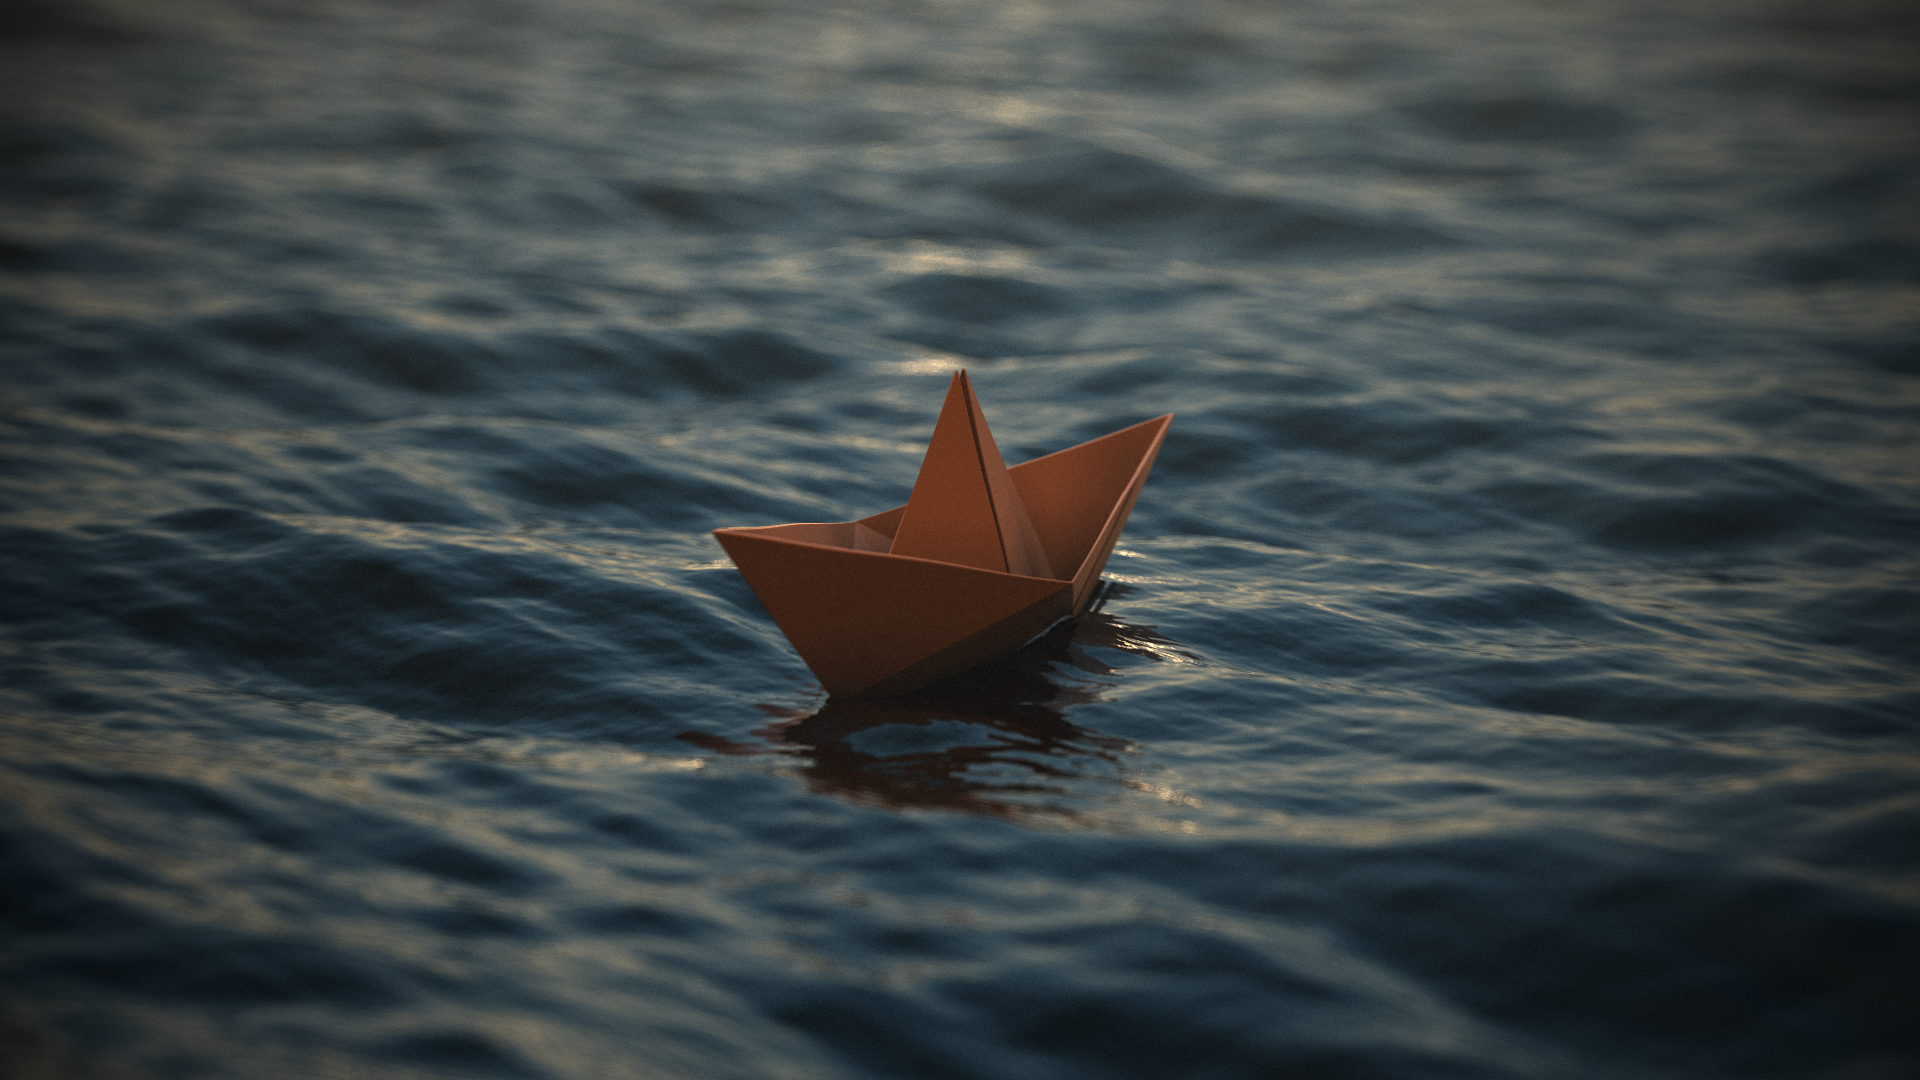
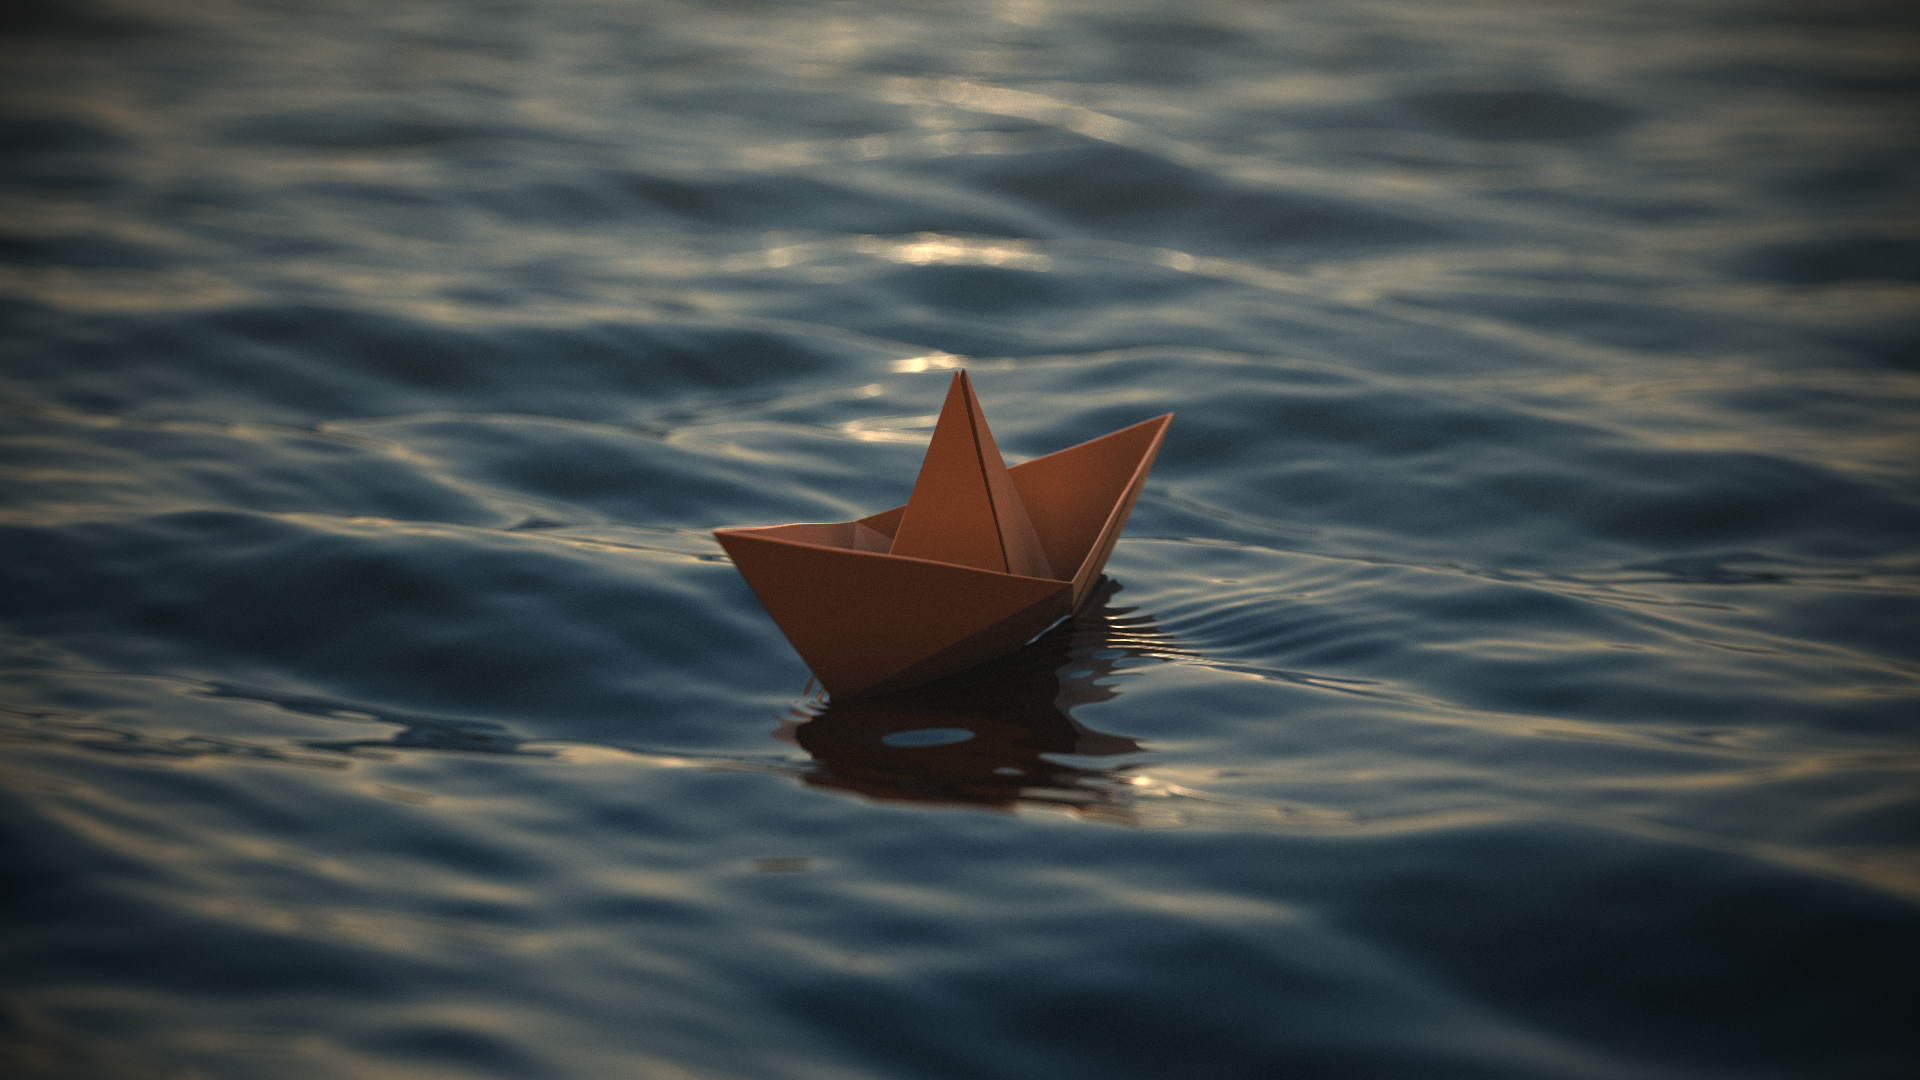
batch renders into scanlines

diff --git a/shipping.c b/shipping.c
@@ -22,7 +22,8 @@ const char* vshader = "#version 450\nvec2 y=vec2(1.,-1);\nvec4 x[4]={y.yyxx,y.xy
 
 #define CANVAS_WIDTH 1920
 #define CANVAS_HEIGHT 1080
-#define WAVE_SAMPLES 2048
+#define SCANLINE_SIZE 10
+#define WAVE_SAMPLES 1024
 #define DEBUG
 
 static gboolean check_escape(GtkWidget *widget, GdkEventKey *event, gpointer data)
@@ -64,7 +65,7 @@ fftwf_complex wavedata_in[WAVE_SAMPLES][WAVE_SAMPLES] __attribute__ ((__aligned_
 fftwf_complex wavedata_out[WAVE_SAMPLES][WAVE_SAMPLES] __attribute__ ((__aligned__(16)));
 
 float phillips_spectrum(float x, float y) {
-	float scale = 400.0; //m? reciprocal meters?
+	float scale = 200.0; //m? reciprocal meters?
 	x *= scale; y *= scale; //m???
 	float k = x*x+y*y; //m...??
 	float windspeed = 3.5; //m/s
@@ -73,7 +74,7 @@ float phillips_spectrum(float x, float y) {
 	// float windx = 0.0; //m/s
 	// float windy = 1.0; //m/s
 	// float dot = windx*x + windy*y; //m^2/s??
-	if (k > WAVE_SAMPLES/4) return 0.0;
+	if (k > WAVE_SAMPLES/2) return 0.0;
 	return 0.1*exp(-1.0/(k*len*len))/(k*k) * pow(y,1.4);
 }
 
@@ -90,8 +91,8 @@ on_render (GtkGLArea *glarea, GdkGLContext *context)
 	glActiveTexture(GL_TEXTURE0 + 0);
 	glBindTexture(GL_TEXTURE_2D, waveTex);
 
-	for (int i = 0; i < WAVE_SAMPLES/4; i++) {
-		for (int j = 0; j < WAVE_SAMPLES/4; j++) {
+	for (int i = 0; i < WAVE_SAMPLES/2; i++) {
+		for (int j = 0; j < WAVE_SAMPLES/2; j++) {
 			// if (i > 500 || j > 500) break;
 			float x = (float)i/WAVE_SAMPLES;
 			float y = (float)j/WAVE_SAMPLES;
@@ -105,7 +106,14 @@ on_render (GtkGLArea *glarea, GdkGLContext *context)
 
   glTexImage2D(GL_TEXTURE_2D, 0, GL_RG32F, WAVE_SAMPLES, WAVE_SAMPLES, 0, GL_RG, GL_FLOAT, wavedata_out);
 
-	glDrawArrays(GL_TRIANGLE_STRIP, 0, 4);
+  glEnable(GL_SCISSOR_TEST);
+  for (int i = 0; i < CANVAS_HEIGHT; i += SCANLINE_SIZE) {
+	  glScissor(0,i,1920,SCANLINE_SIZE);
+		glDrawArrays(GL_TRIANGLE_STRIP, 0, 4);
+		glFinish();
+		while (gtk_events_pending()) gtk_main_iteration();
+  }
+
 
 	return TRUE;
 }
